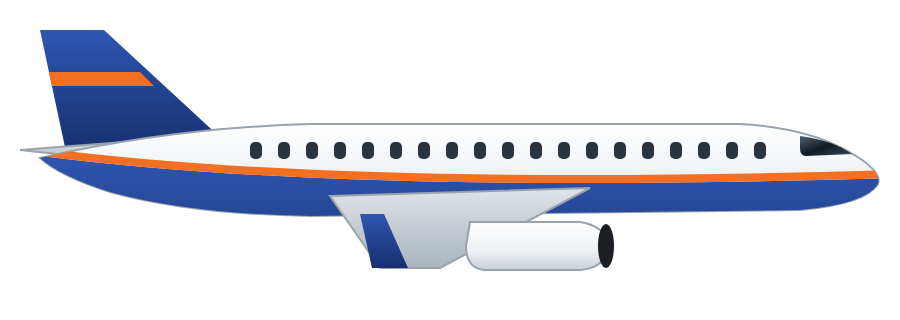
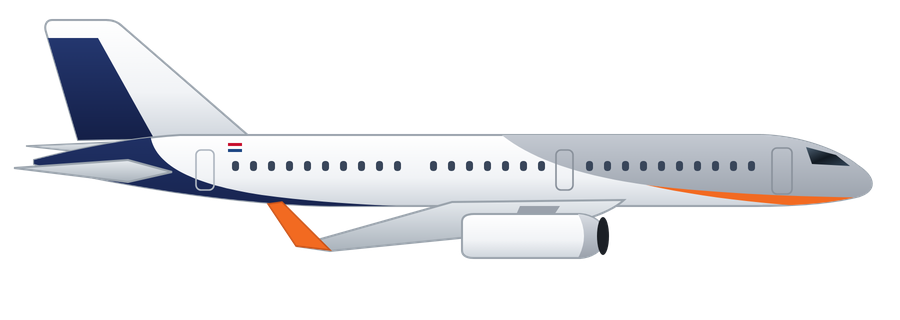
Build 98: new drawing of the government aircraft PH-GOV; site name removed from the more-apps card
Claude-Session: https://claude.ai/code/session_01CXMY93tUivvJNkpfMAQTgP

Changed region(s): [[0.0, 0.0625, 0.9956, 0.8438]]

diff --git a/website/luchtvaart/index.html b/website/luchtvaart/index.html
@@ -106,11 +106,51 @@
 <linearGradient id="k5d" x1="0" y1="0" x2="0" y2="1"><stop offset="0" stop-color="#56652f"/><stop offset="1" stop-color="#34401b"/></linearGradient>
 <linearGradient id="k5gr" x1="0" y1="0" x2="0" y2="1"><stop offset="0" stop-color="#a9b0b6"/><stop offset=".55" stop-color="#7d868e"/><stop offset="1" stop-color="#565e66"/></linearGradient>
 <linearGradient id="k5gd" x1="0" y1="0" x2="0" y2="1"><stop offset="0" stop-color="#6c747c"/><stop offset="1" stop-color="#434a51"/></linearGradient>
-<linearGradient id="k5gl" x1="0" y1="0" x2="1" y2="1"><stop offset="0" stop-color="#3a4654"/><stop offset=".5" stop-color="#10151b"/><stop offset="1" stop-color="#2a3644"/></linearGradient></defs><path class="rot" d="M250 66 Q408.0 56 566 60 Q723.0 56 880 66" fill="none" stroke="#1b1b1b" stroke-width="9" stroke-linecap="round"/><ellipse cx="566" cy="40" rx="30" ry="15" fill="#2b2b2b"/><rect x="558" y="50" width="16" height="48" rx="4" fill="#2b2b2b"/><g class="trot" stroke="#1b1b1b" stroke-width="8" stroke-linecap="round"><path d="M34 68 L106 140"/><path d="M106 68 L34 140"/></g><circle cx="70" cy="104" r="9" fill="#2b2b2b"/><path fill="url(#k5d)" d="M44 150 L84 66 L118 66 L150 150Z"/><path fill="url(#k5d)" d="M20 148 h120 v14 h-120z"/><path fill="url(#k5g)" d="M92 142 L420 152 Q456 112 530 98 L636 98 Q694 100 736 138 L806 170 Q846 182 852 206 Q850 232 806 238 L520 246 Q444 244 404 216 L112 178 Q84 164 92 142Z"/><path fill="#2f3a16" opacity=".55" d="M404 216 Q444 244 520 246 L806 238 Q850 232 852 206 Q640 222 400 206Z"/><rect x="452" y="112" width="130" height="46" rx="23" fill="url(#k5d)"/><ellipse cx="452" cy="135" rx="10" ry="19" fill="#1b1b1b"/><path fill="url(#k5gl)" d="M596 108 L644 108 L656 142 L600 146Z"/><path fill="url(#k5gl)" d="M662 112 Q700 118 730 142 L668 144Z"/><path fill="url(#k5d)" d="M450 184 L610 178 L622 200 L462 208Z"/><rect x="466" y="210" width="96" height="20" rx="10" fill="#2b2b2b"/><rect x="570" y="206" width="44" height="30" rx="5" fill="#2b2b2b"/><g fill="#15171a"><circle cx="578" cy="214" r="4"/><circle cx="592" cy="214" r="4"/><circle cx="606" cy="214" r="4"/><circle cx="578" cy="228" r="4"/><circle cx="592" cy="228" r="4"/><circle cx="606" cy="228" r="4"/></g><circle cx="842" cy="200" r="16" fill="#2b2b2b"/><circle cx="848" cy="198" r="6" fill="#5b6b7b"/><path fill="#2b2b2b" d="M760 236 h44 l6 12 h-56z"/><rect x="800" y="244" width="62" height="6" rx="3" fill="#15171a"/><path stroke="#2b2b2b" stroke-width="9" stroke-linecap="round" d="M600 240 L618 266"/><circle cx="622" cy="272" r="19" fill="#15171a"/><circle cx="622" cy="272" r="8" fill="#8d9499"/><circle cx="140" cy="198" r="11" fill="#15171a"/><circle cx="140" cy="198" r="5" fill="#8d9499"/><path fill="#8fa35a" opacity=".45" d="M110 148 L420 158 Q500 150 720 146 L760 160 L110 160Z"/></svg></div></div><div class="vl rev" style="top:4%;width:230px;animation-duration:19s;animation-delay:-9s"><div class="bob" style="animation-delay:-4.199999999999999s"><svg aria-hidden="true" xmlns="http://www.w3.org/2000/svg" viewBox="0 0 900 320"><defs><linearGradient id="k6w" x1="0" y1="0" x2="0" y2="1"><stop offset="0" stop-color="#ffffff"/><stop offset=".6" stop-color="#eef1f4"/><stop offset="1" stop-color="#c9d0d7"/></linearGradient>
-<linearGradient id="k6wd" x1="0" y1="0" x2="0" y2="1"><stop offset="0" stop-color="#dfe4e9"/><stop offset="1" stop-color="#aab3bc"/></linearGradient>
-<linearGradient id="k6bl" x1="0" y1="0" x2="0" y2="1"><stop offset="0" stop-color="#2f56b0"/><stop offset="1" stop-color="#15306f"/></linearGradient>
+<linearGradient id="k5gl" x1="0" y1="0" x2="1" y2="1"><stop offset="0" stop-color="#3a4654"/><stop offset=".5" stop-color="#10151b"/><stop offset="1" stop-color="#2a3644"/></linearGradient></defs><path class="rot" d="M250 66 Q408.0 56 566 60 Q723.0 56 880 66" fill="none" stroke="#1b1b1b" stroke-width="9" stroke-linecap="round"/><ellipse cx="566" cy="40" rx="30" ry="15" fill="#2b2b2b"/><rect x="558" y="50" width="16" height="48" rx="4" fill="#2b2b2b"/><g class="trot" stroke="#1b1b1b" stroke-width="8" stroke-linecap="round"><path d="M34 68 L106 140"/><path d="M106 68 L34 140"/></g><circle cx="70" cy="104" r="9" fill="#2b2b2b"/><path fill="url(#k5d)" d="M44 150 L84 66 L118 66 L150 150Z"/><path fill="url(#k5d)" d="M20 148 h120 v14 h-120z"/><path fill="url(#k5g)" d="M92 142 L420 152 Q456 112 530 98 L636 98 Q694 100 736 138 L806 170 Q846 182 852 206 Q850 232 806 238 L520 246 Q444 244 404 216 L112 178 Q84 164 92 142Z"/><path fill="#2f3a16" opacity=".55" d="M404 216 Q444 244 520 246 L806 238 Q850 232 852 206 Q640 222 400 206Z"/><rect x="452" y="112" width="130" height="46" rx="23" fill="url(#k5d)"/><ellipse cx="452" cy="135" rx="10" ry="19" fill="#1b1b1b"/><path fill="url(#k5gl)" d="M596 108 L644 108 L656 142 L600 146Z"/><path fill="url(#k5gl)" d="M662 112 Q700 118 730 142 L668 144Z"/><path fill="url(#k5d)" d="M450 184 L610 178 L622 200 L462 208Z"/><rect x="466" y="210" width="96" height="20" rx="10" fill="#2b2b2b"/><rect x="570" y="206" width="44" height="30" rx="5" fill="#2b2b2b"/><g fill="#15171a"><circle cx="578" cy="214" r="4"/><circle cx="592" cy="214" r="4"/><circle cx="606" cy="214" r="4"/><circle cx="578" cy="228" r="4"/><circle cx="592" cy="228" r="4"/><circle cx="606" cy="228" r="4"/></g><circle cx="842" cy="200" r="16" fill="#2b2b2b"/><circle cx="848" cy="198" r="6" fill="#5b6b7b"/><path fill="#2b2b2b" d="M760 236 h44 l6 12 h-56z"/><rect x="800" y="244" width="62" height="6" rx="3" fill="#15171a"/><path stroke="#2b2b2b" stroke-width="9" stroke-linecap="round" d="M600 240 L618 266"/><circle cx="622" cy="272" r="19" fill="#15171a"/><circle cx="622" cy="272" r="8" fill="#8d9499"/><circle cx="140" cy="198" r="11" fill="#15171a"/><circle cx="140" cy="198" r="5" fill="#8d9499"/><path fill="#8fa35a" opacity=".45" d="M110 148 L420 158 Q500 150 720 146 L760 160 L110 160Z"/></svg></div></div><div class="vl rev" style="top:4%;width:230px;animation-duration:19s;animation-delay:-9s"><div class="bob" style="animation-delay:-4.199999999999999s"><svg aria-hidden="true" xmlns="http://www.w3.org/2000/svg" viewBox="0 0 900 320"><defs><linearGradient id="k6w" x1="0" y1="0" x2="0" y2="1"><stop offset="0" stop-color="#ffffff"/><stop offset=".6" stop-color="#f1f3f6"/><stop offset="1" stop-color="#cfd5dc"/></linearGradient>
+<linearGradient id="k6zi" x1="0" y1="0" x2="0" y2="1"><stop offset="0" stop-color="#d9dde3"/><stop offset=".5" stop-color="#b9bfc8"/><stop offset="1" stop-color="#9aa1ab"/></linearGradient>
+<linearGradient id="k6wd" x1="0" y1="0" x2="0" y2="1"><stop offset="0" stop-color="#e6eaee"/><stop offset="1" stop-color="#aab3bc"/></linearGradient>
+<linearGradient id="k6bl" x1="0" y1="0" x2="0" y2="1"><stop offset="0" stop-color="#24376f"/><stop offset="1" stop-color="#141f47"/></linearGradient>
 <linearGradient id="k6gl" x1="0" y1="0" x2="1" y2="1"><stop offset="0" stop-color="#4d6072"/><stop offset=".5" stop-color="#121a22"/><stop offset="1" stop-color="#34475a"/></linearGradient>
-<clipPath id="k6c"><path id="k6romp" d="M40 158 Q170 128 310 124 L740 124 Q812 128 856 156 Q882 172 878 184 Q866 204 800 210 L310 216 Q190 214 110 192 Q60 176 40 158Z"/></clipPath></defs><path fill="url(#k6bl)" d="M66 152 L40 30 L104 30 L236 152Z"/><path fill="#f36f21" d="M52 86 L49 72 L140 72 L154 86Z"/><path fill="url(#k6wd)" stroke="#9aa3ac" stroke-width="2" d="M20 150 L150 140 L196 154 L150 164Z"/><path d="M40 158 Q170 128 310 124 L740 124 Q812 128 856 156 Q882 172 878 184 Q866 204 800 210 L310 216 Q190 214 110 192 Q60 176 40 158Z" fill="url(#k6w)" stroke="#9aa3ac" stroke-width="2"/><g clip-path="url(#k6c)"><path fill="url(#k6bl)" d="M0 150 Q300 196 900 178 L900 320 L0 320Z"/><path fill="#f36f21" d="M0 142 Q300 188 900 170 L900 178 Q300 196 0 150Z"/></g><path fill="url(#k6gl)" d="M800 136 Q832 140 852 154 L806 156 Q800 156 800 148Z"/><rect x="250" y="142" width="12" height="17" rx="5" fill="#2a3440"/><rect x="278" y="142" width="12" height="17" rx="5" fill="#2a3440"/><rect x="306" y="142" width="12" height="17" rx="5" fill="#2a3440"/><rect x="334" y="142" width="12" height="17" rx="5" fill="#2a3440"/><rect x="362" y="142" width="12" height="17" rx="5" fill="#2a3440"/><rect x="390" y="142" width="12" height="17" rx="5" fill="#2a3440"/><rect x="418" y="142" width="12" height="17" rx="5" fill="#2a3440"/><rect x="446" y="142" width="12" height="17" rx="5" fill="#2a3440"/><rect x="474" y="142" width="12" height="17" rx="5" fill="#2a3440"/><rect x="502" y="142" width="12" height="17" rx="5" fill="#2a3440"/><rect x="530" y="142" width="12" height="17" rx="5" fill="#2a3440"/><rect x="558" y="142" width="12" height="17" rx="5" fill="#2a3440"/><rect x="586" y="142" width="12" height="17" rx="5" fill="#2a3440"/><rect x="614" y="142" width="12" height="17" rx="5" fill="#2a3440"/><rect x="642" y="142" width="12" height="17" rx="5" fill="#2a3440"/><rect x="670" y="142" width="12" height="17" rx="5" fill="#2a3440"/><rect x="698" y="142" width="12" height="17" rx="5" fill="#2a3440"/><rect x="726" y="142" width="12" height="17" rx="5" fill="#2a3440"/><rect x="754" y="142" width="12" height="17" rx="5" fill="#2a3440"/><path fill="url(#k6wd)" stroke="#9aa3ac" stroke-width="2" d="M330 196 L590 188 L440 268 L380 268Z"/><path fill="url(#k6bl)" d="M380 268 L440 268 L420 232 L404 196Z" opacity="0"/><path fill="url(#k6bl)" d="M372 268 L360 214 L384 214 L408 268Z"/><path fill="url(#k6w)" stroke="#9aa3ac" stroke-width="2" d="M470 222 h110 q26 4 28 24 q-2 22 -28 24 h-96 q-18 -2 -18 -24z"/><ellipse cx="606" cy="246" rx="8" ry="22" fill="#1b1e22"/></svg></div></div></div>
+<clipPath id="k6c"><path d="M34 160 C80 148 130 138 180 135 L760 135 C800 136 838 150 858 166 C876 178 876 190 860 196 C830 204 790 206 750 206 L330 206 C230 204 110 184 34 164Z"/></clipPath>
+<clipPath id="k6f"><path d="M250 137 L122 26 C118 22 112 20 106 20 L52 20 C46 20 44 26 46 32 L78 140Z"/></clipPath></defs>
+<!-- far stabiliser -->
+<path fill="url(#k6wd)" stroke="#9aa3ac" stroke-width="1.5" d="M26 146 L118 142 L150 150 L118 156Z"/>
+<!-- fin: white leading part and top, dark blue rear -->
+<path fill="url(#k6w)" stroke="#9aa3ac" stroke-width="2" d="M250 137 L122 26 C118 22 112 20 106 20 L52 20 C46 20 44 26 46 32 L78 140Z"/>
+<g clip-path="url(#k6f)"><path fill="url(#k6bl)" d="M40 38 L98 38 L156 142 L60 142Z"/></g>
+<!-- fuselage -->
+<path d="M34 160 C80 148 130 138 180 135 L760 135 C800 136 838 150 858 166 C876 178 876 190 860 196 C830 204 790 206 750 206 L330 206 C230 204 110 184 34 164Z" fill="url(#k6w)" stroke="#9aa3ac" stroke-width="2"/>
+<g clip-path="url(#k6c)">
+<!-- silver front, upper side -->
+<path fill="url(#k6zi)" d="M486 120 C512 150 560 172 640 184 C720 196 800 200 900 204 L900 100 L486 100Z"/>
+<!-- orange sweep at the nose -->
+<path fill="#f26a21" d="M900 210 C800 208 720 201 646 185 C720 194 800 197 900 198Z"/>
+<!-- dark blue rear and belly -->
+<path fill="url(#k6bl)" d="M0 100 L150 132 C152 164 190 184 262 195 C322 203 382 206 430 207 L430 240 L0 240Z"/>
+</g>
+<!-- doors -->
+<g fill="none" stroke="#8a929c" stroke-width="1.6"><rect x="772" y="148" width="20" height="46" rx="5"/><rect x="556" y="150" width="17" height="40" rx="5"/><rect x="196" y="150" width="18" height="40" rx="5" stroke="#aeb6c0"/></g>
+<!-- windows -->
+<g fill="#39465a">
+<rect x="232" y="161" width="7" height="10" rx="3"/><rect x="250" y="161" width="7" height="10" rx="3"/><rect x="268" y="161" width="7" height="10" rx="3"/><rect x="286" y="161" width="7" height="10" rx="3"/><rect x="304" y="161" width="7" height="10" rx="3"/><rect x="322" y="161" width="7" height="10" rx="3"/><rect x="340" y="161" width="7" height="10" rx="3"/><rect x="358" y="161" width="7" height="10" rx="3"/><rect x="376" y="161" width="7" height="10" rx="3"/><rect x="394" y="161" width="7" height="10" rx="3"/>
+<rect x="430" y="161" width="7" height="10" rx="3"/><rect x="448" y="161" width="7" height="10" rx="3"/><rect x="466" y="161" width="7" height="10" rx="3"/><rect x="484" y="161" width="7" height="10" rx="3"/><rect x="502" y="161" width="7" height="10" rx="3"/><rect x="520" y="161" width="7" height="10" rx="3"/><rect x="538" y="161" width="7" height="10" rx="3"/>
+<rect x="586" y="161" width="7" height="10" rx="3"/><rect x="604" y="161" width="7" height="10" rx="3"/><rect x="622" y="161" width="7" height="10" rx="3"/><rect x="640" y="161" width="7" height="10" rx="3"/><rect x="658" y="161" width="7" height="10" rx="3"/><rect x="676" y="161" width="7" height="10" rx="3"/><rect x="694" y="161" width="7" height="10" rx="3"/><rect x="712" y="161" width="7" height="10" rx="3"/><rect x="730" y="161" width="7" height="10" rx="3"/><rect x="748" y="161" width="7" height="10" rx="3"/></g>
+<!-- cockpit -->
+<path fill="url(#k6gl)" d="M806 147 L836 155 L850 166 L812 164Z"/>
+<!-- small flag near the tail -->
+<rect x="228" y="143" width="14" height="3" fill="#c8102e"/><rect x="228" y="146" width="14" height="3" fill="#ffffff"/><rect x="228" y="149" width="14" height="3" fill="#1e4785"/>
+<!-- near stabiliser -->
+<path fill="url(#k6wd)" stroke="#9aa3ac" stroke-width="2" d="M14 168 L128 160 L172 172 L128 182Z"/>
+<!-- wing with the orange winglet -->
+<path fill="url(#k6wd)" stroke="#9aa3ac" stroke-width="2" d="M624 200 L452 202 L296 246 L330 251 L520 232 Q600 222 624 200Z"/>
+<path fill="#f26a21" stroke="#c9541a" stroke-width="1.5" d="M296 246 L268 204 L282 202 L330 250Z"/>
+<!-- engine under the wing -->
+<path fill="#9aa1ab" d="M520 206 L560 206 L548 224 L512 224Z"/>
+<path fill="url(#k6w)" stroke="#9aa3ac" stroke-width="2" d="M462 222 Q462 214 474 214 L580 214 Q602 216 606 236 Q602 256 580 258 L474 258 Q462 258 462 250Z"/>
+<path fill="url(#k6zi)" d="M578 214 Q602 216 606 236 Q602 256 578 258 Q590 236 578 214Z"/>
+<ellipse cx="603" cy="236" rx="6" ry="19" fill="#1b1f25"/>
+</svg>
+</div></div></div>
 <h2>Hulpdiensten</h2><div class="rijen"><section class="rij"><span class="tek"><img src="/assets/img/heli_lifeliner.png" alt="" loading="lazy"></span><div><b>Lifeliner</b><small>Traumahelikopter · EC135</small><p>Brengt een arts en verpleegkundige van het Mobiel Medisch Team snel naar een ernstig ongeval. Er zijn vier Lifeliners, met als bases Amsterdam, Rotterdam, Volkel en Groningen.</p></div></section><section class="rij"><span class="tek"><img src="/assets/img/heli_lifeliner.png" alt="" loading="lazy"></span><div><b>Medic 01</b><small>Ambulancehelikopter · H145</small><p>De ambulancehelikopter voor de Waddeneilanden. Haalt patiënten op van de eilanden en brengt ze naar een ziekenhuis op het vasteland. Het is geen traumahelikopter: er vliegt geen arts van het Mobiel Medisch Team mee.</p></div></section><section class="rij"><span class="tek"><img src="/assets/img/heli_politie.png" alt="" loading="lazy"></span><div><b>Zulu</b><small>Politiehelikopter · EC135</small><p>De helikopter van de Luchtvaartpolitie. Zoekt vermiste personen en verdachten, vaak met een warmtebeeldcamera, en ondersteunt bij achtervolgingen en grote incidenten.</p></div></section><section class="rij"><span class="tek"><img src="/assets/img/heli_politie_aw139.png?v=2" alt="" loading="lazy"></span><div><b>Zulu</b><small>Politiehelikopter · AW139</small><p>De grotere politiehelikopter. Kan meer mensen en materiaal meenemen, bijvoorbeeld een arrestatieteam.</p></div></section></div><h2>Defensie: helikopters</h2><div class="rijen"><section class="rij"><span class="tek"><svg aria-hidden="true" xmlns="http://www.w3.org/2000/svg" viewBox="0 0 900 320"><defs><linearGradient id="u5g" x1="0" y1="0" x2="0" y2="1"><stop offset="0" stop-color="#76884a"/><stop offset=".5" stop-color="#586a33"/><stop offset="1" stop-color="#3c4921"/></linearGradient>
 <linearGradient id="u5d" x1="0" y1="0" x2="0" y2="1"><stop offset="0" stop-color="#4f5e2c"/><stop offset="1" stop-color="#2f3a18"/></linearGradient>
 <linearGradient id="u5gr" x1="0" y1="0" x2="0" y2="1"><stop offset="0" stop-color="#aab2b9"/><stop offset=".5" stop-color="#7f8991"/><stop offset="1" stop-color="#565f67"/></linearGradient>
@@ -169,11 +209,51 @@
 <linearGradient id="u16wd" x1="0" y1="0" x2="0" y2="1"><stop offset="0" stop-color="#dfe4e9"/><stop offset="1" stop-color="#aab3bc"/></linearGradient>
 <linearGradient id="u16bl" x1="0" y1="0" x2="0" y2="1"><stop offset="0" stop-color="#2f56b0"/><stop offset="1" stop-color="#15306f"/></linearGradient>
 <linearGradient id="u16gl" x1="0" y1="0" x2="1" y2="1"><stop offset="0" stop-color="#4d6072"/><stop offset=".5" stop-color="#121a22"/><stop offset="1" stop-color="#34475a"/></linearGradient>
-<clipPath id="u16c"><path id="u16romp" d="M90 176 Q240 156 400 152 L470 150 Q520 104 600 104 Q680 108 730 150 L800 168 Q850 182 852 194 Q840 212 790 216 L420 224 Q240 220 130 200 Q92 190 90 176Z"/></clipPath></defs><path fill="url(#u16w)" stroke="#9aa3ac" stroke-width="2" d="M110 172 L96 66 L150 66 L250 166Z"/><path fill="url(#u16bl)" d="M98 86 L96 66 L150 66 L168 86Z"/><path fill="url(#u16wd)" stroke="#9aa3ac" stroke-width="2" d="M50 70 L180 62 L214 72 L180 80Z"/><path d="M90 176 Q240 156 400 152 L470 150 Q520 104 600 104 Q680 108 730 150 L800 168 Q850 182 852 194 Q840 212 790 216 L420 224 Q240 220 130 200 Q92 190 90 176Z" fill="url(#u16w)" stroke="#9aa3ac" stroke-width="2"/><g clip-path="url(#u16c)"><path fill="url(#u16bl)" d="M0 186 L900 176 L900 196 L0 204Z"/><path fill="#f36f21" d="M0 204 L900 196 L900 201 L0 210Z"/></g><g clip-path="url(#u16c)"><rect x="0" y="206" width="900" height="80" fill="#8792a0" opacity=".35"/></g><path fill="url(#u16gl)" d="M486 148 Q528 112 600 112 Q664 116 706 148Z"/><path stroke="#eef1f4" stroke-width="5" d="M590 112 L590 148"/><path fill="url(#u16wd)" stroke="#9aa3ac" stroke-width="2" d="M380 204 L640 198 L560 240 L440 242Z"/><path fill="url(#u16w)" stroke="#9aa3ac" stroke-width="2" d="M470 214 h130 q26 4 28 20 q-2 18 -28 20 h-112 q-20 -2 -20 -20z"/><ellipse cx="636" cy="234" rx="7" ry="52" fill="#1b1b1b" opacity=".7"/><circle cx="636" cy="234" r="9" fill="#2b2f33"/><path stroke="#2b2b2b" stroke-width="7" stroke-linecap="round" d="M520 254 v22 M770 216 l4 44"/><circle cx="520" cy="284" r="15" fill="#15171a"/><circle cx="520" cy="284" r="6" fill="#8d9499"/><circle cx="776" cy="268" r="13" fill="#15171a"/><circle cx="776" cy="268" r="5" fill="#8d9499"/></svg></span><div><b>Koninklijke Marechaussee</b><small>Patrouillevliegtuig</small><p>Klein tweemotorig vliegtuig met camera's, voor toezicht vanuit de lucht.</p></div></section><section class="rij"><span class="tek"><svg aria-hidden="true" xmlns="http://www.w3.org/2000/svg" viewBox="0 0 900 320"><defs><linearGradient id="u17w" x1="0" y1="0" x2="0" y2="1"><stop offset="0" stop-color="#ffffff"/><stop offset=".6" stop-color="#eef1f4"/><stop offset="1" stop-color="#c9d0d7"/></linearGradient>
-<linearGradient id="u17wd" x1="0" y1="0" x2="0" y2="1"><stop offset="0" stop-color="#dfe4e9"/><stop offset="1" stop-color="#aab3bc"/></linearGradient>
-<linearGradient id="u17bl" x1="0" y1="0" x2="0" y2="1"><stop offset="0" stop-color="#2f56b0"/><stop offset="1" stop-color="#15306f"/></linearGradient>
+<clipPath id="u16c"><path id="u16romp" d="M90 176 Q240 156 400 152 L470 150 Q520 104 600 104 Q680 108 730 150 L800 168 Q850 182 852 194 Q840 212 790 216 L420 224 Q240 220 130 200 Q92 190 90 176Z"/></clipPath></defs><path fill="url(#u16w)" stroke="#9aa3ac" stroke-width="2" d="M110 172 L96 66 L150 66 L250 166Z"/><path fill="url(#u16bl)" d="M98 86 L96 66 L150 66 L168 86Z"/><path fill="url(#u16wd)" stroke="#9aa3ac" stroke-width="2" d="M50 70 L180 62 L214 72 L180 80Z"/><path d="M90 176 Q240 156 400 152 L470 150 Q520 104 600 104 Q680 108 730 150 L800 168 Q850 182 852 194 Q840 212 790 216 L420 224 Q240 220 130 200 Q92 190 90 176Z" fill="url(#u16w)" stroke="#9aa3ac" stroke-width="2"/><g clip-path="url(#u16c)"><path fill="url(#u16bl)" d="M0 186 L900 176 L900 196 L0 204Z"/><path fill="#f36f21" d="M0 204 L900 196 L900 201 L0 210Z"/></g><g clip-path="url(#u16c)"><rect x="0" y="206" width="900" height="80" fill="#8792a0" opacity=".35"/></g><path fill="url(#u16gl)" d="M486 148 Q528 112 600 112 Q664 116 706 148Z"/><path stroke="#eef1f4" stroke-width="5" d="M590 112 L590 148"/><path fill="url(#u16wd)" stroke="#9aa3ac" stroke-width="2" d="M380 204 L640 198 L560 240 L440 242Z"/><path fill="url(#u16w)" stroke="#9aa3ac" stroke-width="2" d="M470 214 h130 q26 4 28 20 q-2 18 -28 20 h-112 q-20 -2 -20 -20z"/><ellipse cx="636" cy="234" rx="7" ry="52" fill="#1b1b1b" opacity=".7"/><circle cx="636" cy="234" r="9" fill="#2b2f33"/><path stroke="#2b2b2b" stroke-width="7" stroke-linecap="round" d="M520 254 v22 M770 216 l4 44"/><circle cx="520" cy="284" r="15" fill="#15171a"/><circle cx="520" cy="284" r="6" fill="#8d9499"/><circle cx="776" cy="268" r="13" fill="#15171a"/><circle cx="776" cy="268" r="5" fill="#8d9499"/></svg></span><div><b>Koninklijke Marechaussee</b><small>Patrouillevliegtuig</small><p>Klein tweemotorig vliegtuig met camera's, voor toezicht vanuit de lucht.</p></div></section><section class="rij"><span class="tek"><svg aria-hidden="true" xmlns="http://www.w3.org/2000/svg" viewBox="0 0 900 320"><defs><linearGradient id="u17w" x1="0" y1="0" x2="0" y2="1"><stop offset="0" stop-color="#ffffff"/><stop offset=".6" stop-color="#f1f3f6"/><stop offset="1" stop-color="#cfd5dc"/></linearGradient>
+<linearGradient id="u17zi" x1="0" y1="0" x2="0" y2="1"><stop offset="0" stop-color="#d9dde3"/><stop offset=".5" stop-color="#b9bfc8"/><stop offset="1" stop-color="#9aa1ab"/></linearGradient>
+<linearGradient id="u17wd" x1="0" y1="0" x2="0" y2="1"><stop offset="0" stop-color="#e6eaee"/><stop offset="1" stop-color="#aab3bc"/></linearGradient>
+<linearGradient id="u17bl" x1="0" y1="0" x2="0" y2="1"><stop offset="0" stop-color="#24376f"/><stop offset="1" stop-color="#141f47"/></linearGradient>
 <linearGradient id="u17gl" x1="0" y1="0" x2="1" y2="1"><stop offset="0" stop-color="#4d6072"/><stop offset=".5" stop-color="#121a22"/><stop offset="1" stop-color="#34475a"/></linearGradient>
-<clipPath id="u17c"><path id="u17romp" d="M40 158 Q170 128 310 124 L740 124 Q812 128 856 156 Q882 172 878 184 Q866 204 800 210 L310 216 Q190 214 110 192 Q60 176 40 158Z"/></clipPath></defs><path fill="url(#u17bl)" d="M66 152 L40 30 L104 30 L236 152Z"/><path fill="#f36f21" d="M52 86 L49 72 L140 72 L154 86Z"/><path fill="url(#u17wd)" stroke="#9aa3ac" stroke-width="2" d="M20 150 L150 140 L196 154 L150 164Z"/><path d="M40 158 Q170 128 310 124 L740 124 Q812 128 856 156 Q882 172 878 184 Q866 204 800 210 L310 216 Q190 214 110 192 Q60 176 40 158Z" fill="url(#u17w)" stroke="#9aa3ac" stroke-width="2"/><g clip-path="url(#u17c)"><path fill="url(#u17bl)" d="M0 150 Q300 196 900 178 L900 320 L0 320Z"/><path fill="#f36f21" d="M0 142 Q300 188 900 170 L900 178 Q300 196 0 150Z"/></g><path fill="url(#u17gl)" d="M800 136 Q832 140 852 154 L806 156 Q800 156 800 148Z"/><rect x="250" y="142" width="12" height="17" rx="5" fill="#2a3440"/><rect x="278" y="142" width="12" height="17" rx="5" fill="#2a3440"/><rect x="306" y="142" width="12" height="17" rx="5" fill="#2a3440"/><rect x="334" y="142" width="12" height="17" rx="5" fill="#2a3440"/><rect x="362" y="142" width="12" height="17" rx="5" fill="#2a3440"/><rect x="390" y="142" width="12" height="17" rx="5" fill="#2a3440"/><rect x="418" y="142" width="12" height="17" rx="5" fill="#2a3440"/><rect x="446" y="142" width="12" height="17" rx="5" fill="#2a3440"/><rect x="474" y="142" width="12" height="17" rx="5" fill="#2a3440"/><rect x="502" y="142" width="12" height="17" rx="5" fill="#2a3440"/><rect x="530" y="142" width="12" height="17" rx="5" fill="#2a3440"/><rect x="558" y="142" width="12" height="17" rx="5" fill="#2a3440"/><rect x="586" y="142" width="12" height="17" rx="5" fill="#2a3440"/><rect x="614" y="142" width="12" height="17" rx="5" fill="#2a3440"/><rect x="642" y="142" width="12" height="17" rx="5" fill="#2a3440"/><rect x="670" y="142" width="12" height="17" rx="5" fill="#2a3440"/><rect x="698" y="142" width="12" height="17" rx="5" fill="#2a3440"/><rect x="726" y="142" width="12" height="17" rx="5" fill="#2a3440"/><rect x="754" y="142" width="12" height="17" rx="5" fill="#2a3440"/><path fill="url(#u17wd)" stroke="#9aa3ac" stroke-width="2" d="M330 196 L590 188 L440 268 L380 268Z"/><path fill="url(#u17bl)" d="M380 268 L440 268 L420 232 L404 196Z" opacity="0"/><path fill="url(#u17bl)" d="M372 268 L360 214 L384 214 L408 268Z"/><path fill="url(#u17w)" stroke="#9aa3ac" stroke-width="2" d="M470 222 h110 q26 4 28 24 q-2 22 -28 24 h-96 q-18 -2 -18 -24z"/><ellipse cx="606" cy="246" rx="8" ry="22" fill="#1b1e22"/></svg></span><div><b>Regeringsvliegtuig</b><small>PH-GOV · Boeing 737</small><p>Het vliegtuig van de Nederlandse regering, voor reizen van het Koninklijk Huis en ministers.</p></div></section></div>
+<clipPath id="u17c"><path d="M34 160 C80 148 130 138 180 135 L760 135 C800 136 838 150 858 166 C876 178 876 190 860 196 C830 204 790 206 750 206 L330 206 C230 204 110 184 34 164Z"/></clipPath>
+<clipPath id="u17f"><path d="M250 137 L122 26 C118 22 112 20 106 20 L52 20 C46 20 44 26 46 32 L78 140Z"/></clipPath></defs>
+<!-- far stabiliser -->
+<path fill="url(#u17wd)" stroke="#9aa3ac" stroke-width="1.5" d="M26 146 L118 142 L150 150 L118 156Z"/>
+<!-- fin: white leading part and top, dark blue rear -->
+<path fill="url(#u17w)" stroke="#9aa3ac" stroke-width="2" d="M250 137 L122 26 C118 22 112 20 106 20 L52 20 C46 20 44 26 46 32 L78 140Z"/>
+<g clip-path="url(#u17f)"><path fill="url(#u17bl)" d="M40 38 L98 38 L156 142 L60 142Z"/></g>
+<!-- fuselage -->
+<path d="M34 160 C80 148 130 138 180 135 L760 135 C800 136 838 150 858 166 C876 178 876 190 860 196 C830 204 790 206 750 206 L330 206 C230 204 110 184 34 164Z" fill="url(#u17w)" stroke="#9aa3ac" stroke-width="2"/>
+<g clip-path="url(#u17c)">
+<!-- silver front, upper side -->
+<path fill="url(#u17zi)" d="M486 120 C512 150 560 172 640 184 C720 196 800 200 900 204 L900 100 L486 100Z"/>
+<!-- orange sweep at the nose -->
+<path fill="#f26a21" d="M900 210 C800 208 720 201 646 185 C720 194 800 197 900 198Z"/>
+<!-- dark blue rear and belly -->
+<path fill="url(#u17bl)" d="M0 100 L150 132 C152 164 190 184 262 195 C322 203 382 206 430 207 L430 240 L0 240Z"/>
+</g>
+<!-- doors -->
+<g fill="none" stroke="#8a929c" stroke-width="1.6"><rect x="772" y="148" width="20" height="46" rx="5"/><rect x="556" y="150" width="17" height="40" rx="5"/><rect x="196" y="150" width="18" height="40" rx="5" stroke="#aeb6c0"/></g>
+<!-- windows -->
+<g fill="#39465a">
+<rect x="232" y="161" width="7" height="10" rx="3"/><rect x="250" y="161" width="7" height="10" rx="3"/><rect x="268" y="161" width="7" height="10" rx="3"/><rect x="286" y="161" width="7" height="10" rx="3"/><rect x="304" y="161" width="7" height="10" rx="3"/><rect x="322" y="161" width="7" height="10" rx="3"/><rect x="340" y="161" width="7" height="10" rx="3"/><rect x="358" y="161" width="7" height="10" rx="3"/><rect x="376" y="161" width="7" height="10" rx="3"/><rect x="394" y="161" width="7" height="10" rx="3"/>
+<rect x="430" y="161" width="7" height="10" rx="3"/><rect x="448" y="161" width="7" height="10" rx="3"/><rect x="466" y="161" width="7" height="10" rx="3"/><rect x="484" y="161" width="7" height="10" rx="3"/><rect x="502" y="161" width="7" height="10" rx="3"/><rect x="520" y="161" width="7" height="10" rx="3"/><rect x="538" y="161" width="7" height="10" rx="3"/>
+<rect x="586" y="161" width="7" height="10" rx="3"/><rect x="604" y="161" width="7" height="10" rx="3"/><rect x="622" y="161" width="7" height="10" rx="3"/><rect x="640" y="161" width="7" height="10" rx="3"/><rect x="658" y="161" width="7" height="10" rx="3"/><rect x="676" y="161" width="7" height="10" rx="3"/><rect x="694" y="161" width="7" height="10" rx="3"/><rect x="712" y="161" width="7" height="10" rx="3"/><rect x="730" y="161" width="7" height="10" rx="3"/><rect x="748" y="161" width="7" height="10" rx="3"/></g>
+<!-- cockpit -->
+<path fill="url(#u17gl)" d="M806 147 L836 155 L850 166 L812 164Z"/>
+<!-- small flag near the tail -->
+<rect x="228" y="143" width="14" height="3" fill="#c8102e"/><rect x="228" y="146" width="14" height="3" fill="#ffffff"/><rect x="228" y="149" width="14" height="3" fill="#1e4785"/>
+<!-- near stabiliser -->
+<path fill="url(#u17wd)" stroke="#9aa3ac" stroke-width="2" d="M14 168 L128 160 L172 172 L128 182Z"/>
+<!-- wing with the orange winglet -->
+<path fill="url(#u17wd)" stroke="#9aa3ac" stroke-width="2" d="M624 200 L452 202 L296 246 L330 251 L520 232 Q600 222 624 200Z"/>
+<path fill="#f26a21" stroke="#c9541a" stroke-width="1.5" d="M296 246 L268 204 L282 202 L330 250Z"/>
+<!-- engine under the wing -->
+<path fill="#9aa1ab" d="M520 206 L560 206 L548 224 L512 224Z"/>
+<path fill="url(#u17w)" stroke="#9aa3ac" stroke-width="2" d="M462 222 Q462 214 474 214 L580 214 Q602 216 606 236 Q602 256 580 258 L474 258 Q462 258 462 250Z"/>
+<path fill="url(#u17zi)" d="M578 214 Q602 216 606 236 Q602 256 578 258 Q590 236 578 214Z"/>
+<ellipse cx="603" cy="236" rx="6" ry="19" fill="#1b1f25"/>
+</svg>
+</span><div><b>Regeringsvliegtuig</b><small>PH-GOV · Boeing 737</small><p>Het vliegtuig van de Nederlandse regering, voor reizen van het Koninklijk Huis en ministers.</p></div></section></div>
 <h2>Goed om te weten</h2>
 <div class="hoe"><b>Alleen Nederlandse toestellen</b>Bij Defensie tonen we alleen Nederlandse militaire toestellen. Buitenlandse toestellen die over Nederland vliegen, staan niet op de kaart.</div>
 <div class="hoe"><b>Hoe herkent A-Alerts een toestel?</b>Elk toestel zendt een vast adres uit dat nooit verandert. Daaraan en aan het type herkennen we het, ook als de roepnaam per vlucht anders is. Een toestel dat zijn positie niet uitzendt, staat niet op de kaart. Posities: adsb.lol (ODbL).</div>

diff --git a/website/assets/js/aalerts.js b/website/assets/js/aalerts.js
@@ -59,7 +59,7 @@ export const LUCHT_SOORTEN = [
   ["heli", "Overige helikopter (Defensie)", "lucht_heli"], ["f35", "Straaljager", "lucht_f35"], ["hercules", "Transportvliegtuig", "lucht_hercules"],
   ["les", "Lesvliegtuig", "lucht_les"], ["vliegtuig", "Overig vliegtuig (Defensie)", "lucht_vliegtuig"],
   ["kustwacht_dash8", "Kustwacht vliegtuig", "lucht_kustwacht_dash8"], ["kustwacht_aw189", "Kustwacht helikopter", "lucht_kustwacht_aw189"],
-  ["kmar", "Koninklijke Marechaussee", "lucht_kmar"], ["phgov", "Regeringsvliegtuig PH-GOV", "lucht_phgov"],
+  ["kmar", "Koninklijke Marechaussee", "lucht_kmar"], ["phgov", "Regeringsvliegtuig PH-GOV", "lucht_phgov2"],
 ];
 export const luchtSoort = (h) => h.icoon || h.soort;
 const LUCHT_KEY = "p2000.luchtSoorten";
@@ -276,7 +276,8 @@ export function inzetEenheden(m, list) {
 // ------------------------------------------------------------------ helicopters
 
 export function heliImg(h) {
-  if (h.icoon) return asset(`assets/img/lucht_${h.icoon}.png`);
+  // lucht_phgov2: the new drawing of the government aircraft under a new name (images stay cached for 30 days).
+  if (h.icoon) return asset(`assets/img/lucht_${h.icoon === "phgov" ? "phgov2" : h.icoon}.png`);
   if (h.soort === "trauma") return asset("assets/img/heli_lifeliner.png");
   return h.type === "A139" || ["zulu24", "zulu25", "zulu26"].includes(h.id) ? asset("assets/img/heli_politie_aw139.png") + "?v=2" : asset("assets/img/heli_politie.png");
 }

diff --git a/P2000Apeldoorn/Views/Components/MoreAppsCard.swift b/P2000Apeldoorn/Views/Components/MoreAppsCard.swift
@@ -72,17 +72,11 @@ struct MoreAppsCard: View {
                         .fixedSize(horizontal: false, vertical: true)
                 }
                 Spacer(minLength: 8)
-                VStack(spacing: 4) {
-                    Text(text.action)
-                        .font(AppFont.body(15, .bold, relativeTo: .subheadline))
-                        .foregroundStyle(Brand.onAccent)
-                        .padding(.horizontal, 14).padding(.vertical, 6)
-                        .background(Brand.accent, in: Capsule())
-                    Text("lrvdlinden.app")
-                        .font(AppFont.body(11, .regular, relativeTo: .caption2))
-                        .foregroundStyle(Brand.muted)
-                        .lineLimit(1)
-                }
+                Text(text.action)
+                    .font(AppFont.body(15, .bold, relativeTo: .subheadline))
+                    .foregroundStyle(Brand.onAccent)
+                    .padding(.horizontal, 14).padding(.vertical, 6)
+                    .background(Brand.accent, in: Capsule())
             }
             .padding(16)
             .background(Brand.surface, in: RoundedRectangle(cornerRadius: 22, style: .continuous))

diff --git a/website/assets/js/pager.js b/website/assets/js/pager.js
@@ -9,7 +9,7 @@ import {
   wRings, kazerneRoutes, routeFase, geschattePositie, verband, heliAnnotation, heliInfo, warnAnnotation, warnOverlays, kazerneAnnotation, kazernes,
   heliGenoemd, heliNaam, heliRelevant, heliVoor, heliImg, vliegtWest, fetchSpoor, fetchSpoorVol, inzetVoor, inzetVan, inzetTekst, fetchVerloop, fetchPost, fetchApp, fetchPand, pandTekst, inDeLucht, inzetEenheden, fetchVluchten, fetchHeliStatus, meldToestel, spoorOverlay, vluchtTekst, heliLaag, geschat, fetchLocaties, locatieAnnotation, locatieSoort, locatieIcon, voorspellingTekst, voorspellingOverlay, afspeelPunt,
   fetchVerkeer, verkeerOverlay, verkeerAnnotation, flitserAnnotation, verkeerHTML,
-  CODES, isOpgeheven, isKind, wShareUrl, mShareUrl, routeLinks, weergave, zetWeergave, kaartKleur, volgKaartKleur, isGrootIncident, radarLaag, meldingFeedback } from "./aalerts.js?v=73";
+  CODES, isOpgeheven, isKind, wShareUrl, mShareUrl, routeLinks, weergave, zetWeergave, kaartKleur, volgKaartKleur, isGrootIncident, radarLaag, meldingFeedback } from "./aalerts.js?v=74";
 
 const $ = (id) => document.getElementById(id);
 trackVisit();

diff --git a/android/app/src/main/java/nl/lrvdlinden/aalerts/ui/SettingsScreen.kt b/android/app/src/main/java/nl/lrvdlinden/aalerts/ui/SettingsScreen.kt
@@ -199,6 +199,6 @@ fun MoreAppsCard() {
     val ctx = LocalContext.current
     SectionCard(tr("Meer apps van de ontwikkelaar", "More apps by the developer"), Icons.Outlined.Apps) {
         Text(tr("Bekijk alle apps van LRvdLinden: voor iPhone, iPad, Mac, Apple TV, Homey en Android.", "See all apps by LRvdLinden: for iPhone, iPad, Mac, Apple TV, Homey and Android."), color = Muted, fontSize = 13.sp)
-        OutlinedButton(onClick = { ctx.startActivity(Intent(Intent.ACTION_VIEW, Uri.parse("https://lrvdlinden.app"))) }) { Text("lrvdlinden.app") }
+        OutlinedButton(onClick = { ctx.startActivity(Intent(Intent.ACTION_VIEW, Uri.parse("https://lrvdlinden.app"))) }) { Text(tr("Bekijk", "View")) }
     }
 }

diff --git a/website/assets/js/meldkamer.js b/website/assets/js/meldkamer.js
@@ -9,7 +9,7 @@ import {
   BRONNEN, fetchWaarschuwingen, fetchHelikopters, fetchLuchtvaart, wKop, wTijd, wKleur, wOpKleur, wIcon, wStart, isActief, isBeeindigd, warnAnnotation, warnOverlays,
   heliLaag, fetchSpoor, spoorOverlay, geschat, fetchLocaties, locatieAnnotation, voorspellingOverlay, voorspellingTekst, heliImg, heliInfo, vliegtWest, heliVoor, heliRelevant, kazernes, kazerneAnnotation, kazerneRoutes, werkgebiedLijnen, radarLaag,
   kaartKleur, volgKaartKleur, fetchVerkeer, verkeerOverlay, verkeerAnnotation, flitserAnnotation,
-} from "./aalerts.js?v=73";
+} from "./aalerts.js?v=74";
 
 const $ = (id) => document.getElementById(id);
 trackVisit();

diff --git a/website/assets/js/widget.js b/website/assets/js/widget.js
@@ -8,7 +8,7 @@ import { API, asset, esc, loadMapKit, mapsAllowed, markerAnnotation, fmtTime, pr
 import {
   fetchWaarschuwingen, fetchHelikopters, heliLaag, fetchLocaties, locatieAnnotation, radarLaag, CODES, mShareUrl,
   fetchVerkeer, verkeerOverlay, verkeerAnnotation, flitserAnnotation, verkeerIcon, verkeerFile, VERKEER_SOORT, verkeerRegels, verkeerTijdvak, verkeerKleur,
-} from "./aalerts.js?v=73";
+} from "./aalerts.js?v=74";
 
 // The area: Apeldoorn, the villages and hamlets, Teuge, with the A1 and A50 around it.
 const GEBIED = { noord: 52.36, zuid: 52.03, oost: 6.20, west: 5.70 };

diff --git a/website/widget/index.html b/website/widget/index.html
@@ -16,7 +16,7 @@
 // A-Alerts widget for other websites: /widget/?w=kaart,verkeer&thema=auto|licht|donker[&site=<host>]
 // Reports the site it is shown on (domain only); a blocked site gets a link to a-alerts.nl instead.
 import { API } from "/assets/js/core.js?v=61";
-import { maakWidgets } from "/assets/js/widget.js?v=18";
+import { maakWidgets } from "/assets/js/widget.js?v=19";
 const q = new URLSearchParams(location.search);
 const widgets = (q.get("w") || "kaart,verkeer,weer").split(",");
 const thema = ["licht", "donker"].includes(q.get("thema")) ? q.get("thema") : "auto";

diff --git a/website/meldkamer/index.html b/website/meldkamer/index.html
@@ -34,7 +34,7 @@
 <link rel="stylesheet" href="../assets/css/meldkamer.css?v=59">
 <script src="../config.js?v=57"></script>
 <script src="../assets/js/consent.js?v=59" defer></script>
-<script type="module" src="../assets/js/meldkamer.js?v=74"></script>
+<script type="module" src="../assets/js/meldkamer.js?v=75"></script>
 </head>
 <body class="mk" data-maps>
 <h1 class="sr-only">Meldkamer: live kaart van de gemeente Apeldoorn</h1>

diff --git a/website/pager/index.html b/website/pager/index.html
@@ -34,7 +34,7 @@
 <link rel="stylesheet" href="../assets/css/pager.css?v=69">
 <script src="../config.js?v=57"></script>
 <script src="../assets/js/consent.js?v=59" defer></script>
-<script type="module" src="../assets/js/pager.js?v=81"></script>
+<script type="module" src="../assets/js/pager.js?v=82"></script>
 </head>
 <body class="app" data-maps>
 <h1 class="sr-only">Live pager: alle meldingen in de gemeente Apeldoorn</h1>

diff --git a/website/assets/js/landing.js b/website/assets/js/landing.js
@@ -1,4 +1,4 @@
-import { fetchWaarschuwingen, fetchHelikopters, wKop, wTijd, wIcon, wStatus, BRONNEN } from "./aalerts.js?v=73";
+import { fetchWaarschuwingen, fetchHelikopters, wKop, wTijd, wIcon, wStatus, BRONNEN } from "./aalerts.js?v=74";
 import { trackVisit, fetchMeldingen, today, dienstOf, asset, date, fmtTime, esc, ago, reveal, countUp, demoMode, config, plaatsText } from "./core.js?v=61";
 
 reveal();

diff --git a/website/index.html b/website/index.html
@@ -36,7 +36,7 @@
 <link rel="stylesheet" href="assets/css/landing.css?v=59">
 <script src="config.js?v=57"></script>
 <script src="assets/js/consent.js?v=59" defer></script>
-<script type="module" src="assets/js/landing.js?v=69"></script>
+<script type="module" src="assets/js/landing.js?v=70"></script>
 </head>
 <body class="landing">
 
